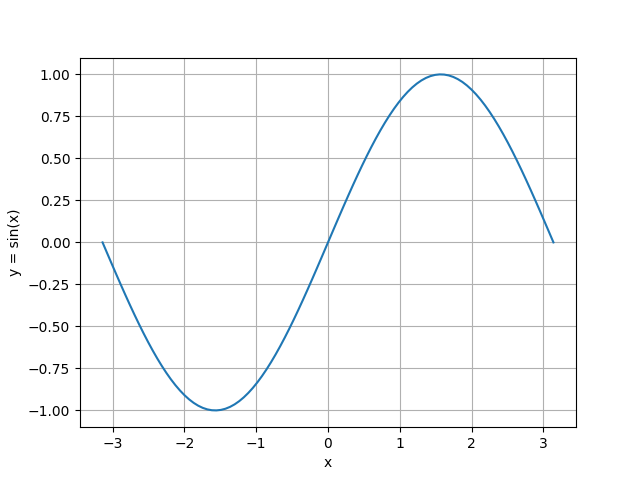
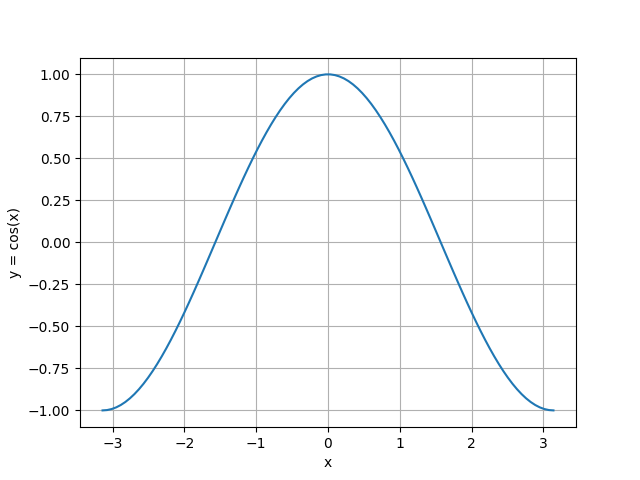
Codigo y grafica actualizadas

diff --git a/PerezGabriel_Ejercicio21.py b/PerezGabriel_Ejercicio21.py
@@ -2,10 +2,10 @@ import matplotlib.pyplot as plt
 import numpy as np
 
 x = np.linspace(-np.pi,np.pi,100)
-y = np.sin(x)
+y = np.cos(x)
 
 plt.plot(x,y)
 plt.xlabel('x')
-plt.ylabel('y = sin(x)')
+plt.ylabel('y = cos(x)')
 plt.grid()
 plt.savefig('grafica.png')
